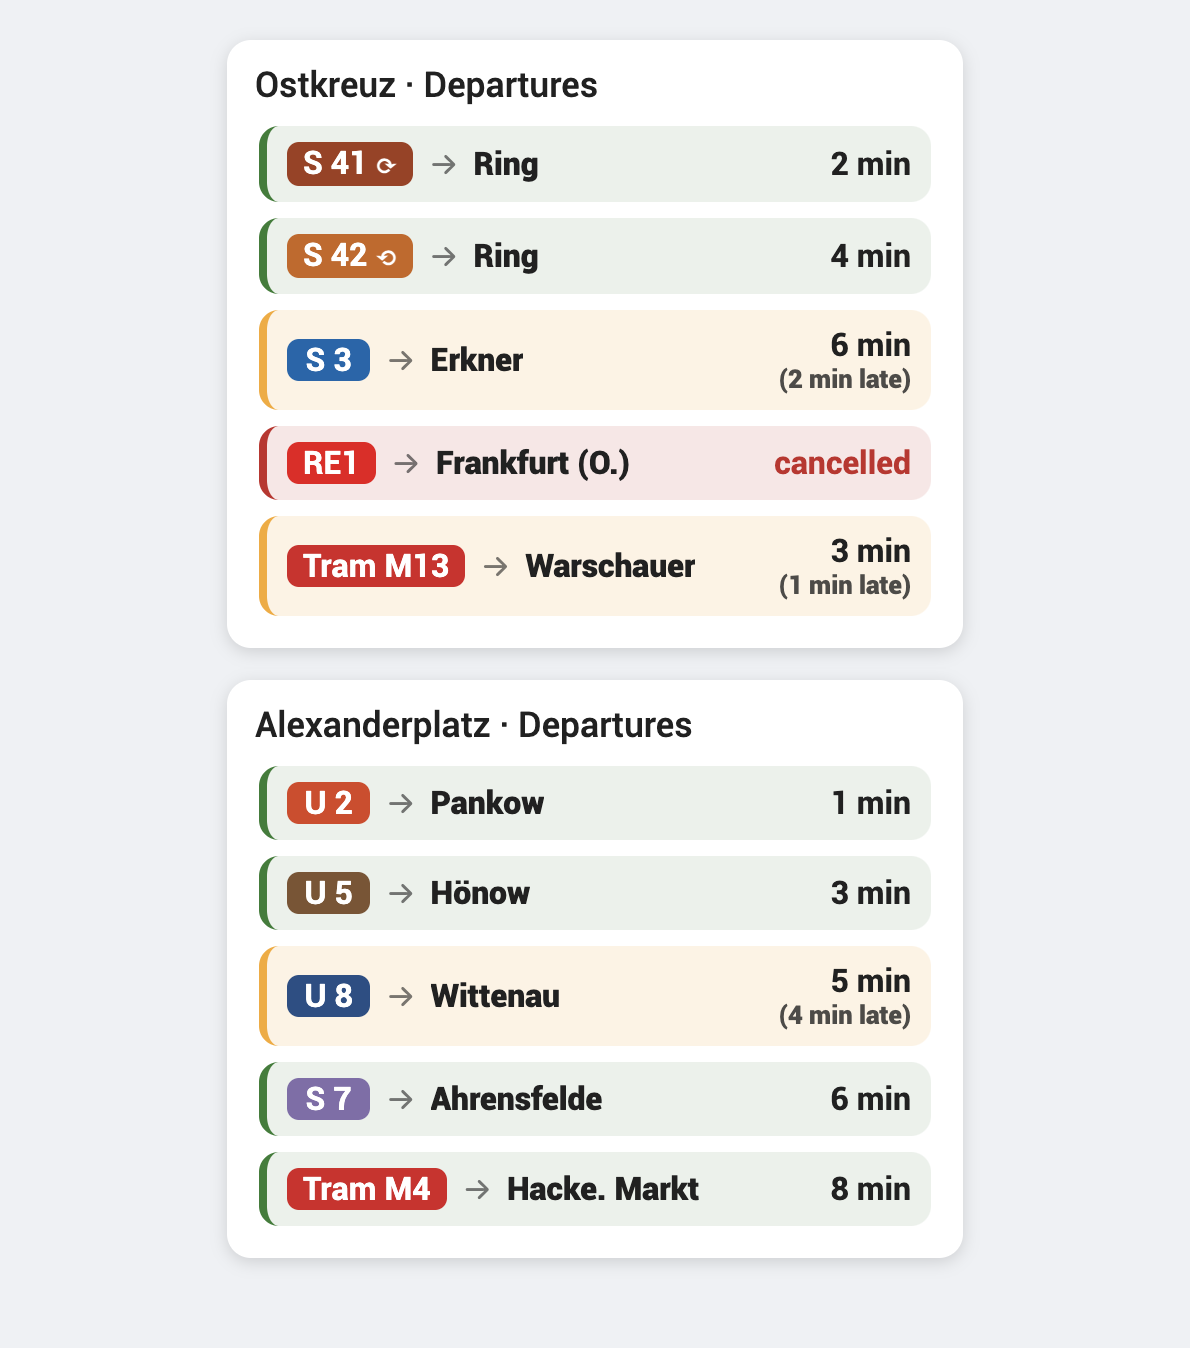
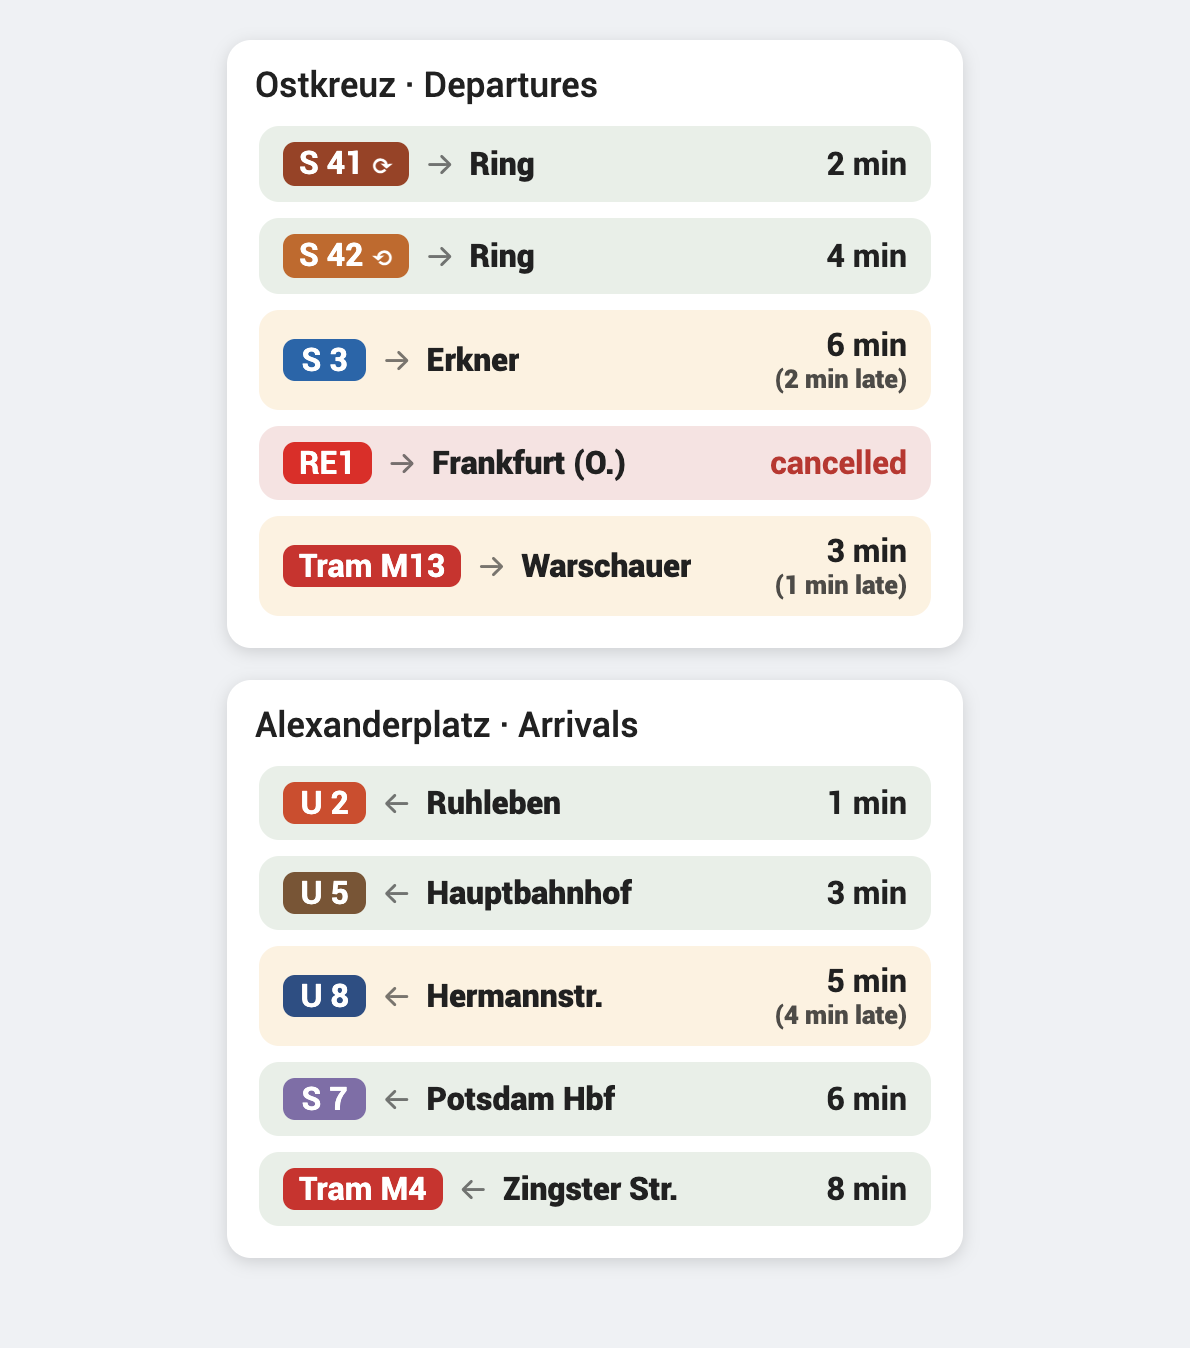
feat: drop coloured row border, reverse arrow for arrivals
- Remove the status-coloured left border; keep the row background tint
- Arrow now follows the board direction: departures →, arrivals ←
- Refresh the README screenshot (departures + arrivals board)

diff --git a/custom_components/catchable/catchable-departures-card.js b/custom_components/catchable/catchable-departures-card.js
@@ -161,6 +161,7 @@ class CatchableDeparturesCard extends HTMLElement {
     const key = JSON.stringify([
       title,
       attrs.stale,
+      attrs.direction,
       departures,
       this._lineColors,
       this._ringSymbols,
@@ -181,7 +182,11 @@ class CatchableDeparturesCard extends HTMLElement {
         const cancelled = !!d.cancelled;
         const delay = Number(d.delay_min || 0);
         const status = cancelled ? "cancelled" : delay >= 1 ? "delayed" : "ontime";
-        const arrow = (d.kind || "departure") === "arrival" ? "←" : "→";
+        // Arrow follows the board direction: departures point to the
+        // destination (→), arrivals point the opposite way, from the origin (←).
+        const board = attrs.direction === "arrivals" ? "arrival" : "departure";
+        const kind = d.kind || board;
+        const arrow = kind === "arrival" ? "←" : "→";
         const rawLine = d.line || "—";
         const place = this._esc(d.direction || "—");
 
@@ -240,16 +245,15 @@ class CatchableDeparturesCard extends HTMLElement {
       .rows { display: flex; flex-direction: column; }
       .row {
         display: flex; align-items: center; justify-content: space-between;
-        gap: 12px; padding: 8px 10px; margin: 4px 0; border-radius: 10px;
-        border-left: 4px solid var(--divider-color);
+        gap: 12px; padding: 8px 12px; margin: 4px 0; border-radius: 10px;
         background: var(--ha-card-background, var(--card-background-color));
       }
-      .row.ontime { border-left-color: var(--success-color, #2e7d32);
-        background: color-mix(in srgb, var(--success-color, #2e7d32) 10%, transparent); }
-      .row.delayed { border-left-color: var(--warning-color, #f9a825);
-        background: color-mix(in srgb, var(--warning-color, #f9a825) 14%, transparent); }
-      .row.cancelled { border-left-color: var(--error-color, #c62828);
-        background: color-mix(in srgb, var(--error-color, #c62828) 12%, transparent); }
+      .row.ontime {
+        background: color-mix(in srgb, var(--success-color, #2e7d32) 12%, transparent); }
+      .row.delayed {
+        background: color-mix(in srgb, var(--warning-color, #f9a825) 16%, transparent); }
+      .row.cancelled {
+        background: color-mix(in srgb, var(--error-color, #c62828) 14%, transparent); }
       .left { display: flex; align-items: center; gap: 8px; min-width: 0; }
       .line { font-weight: 600; white-space: nowrap; }
       .line.badge {